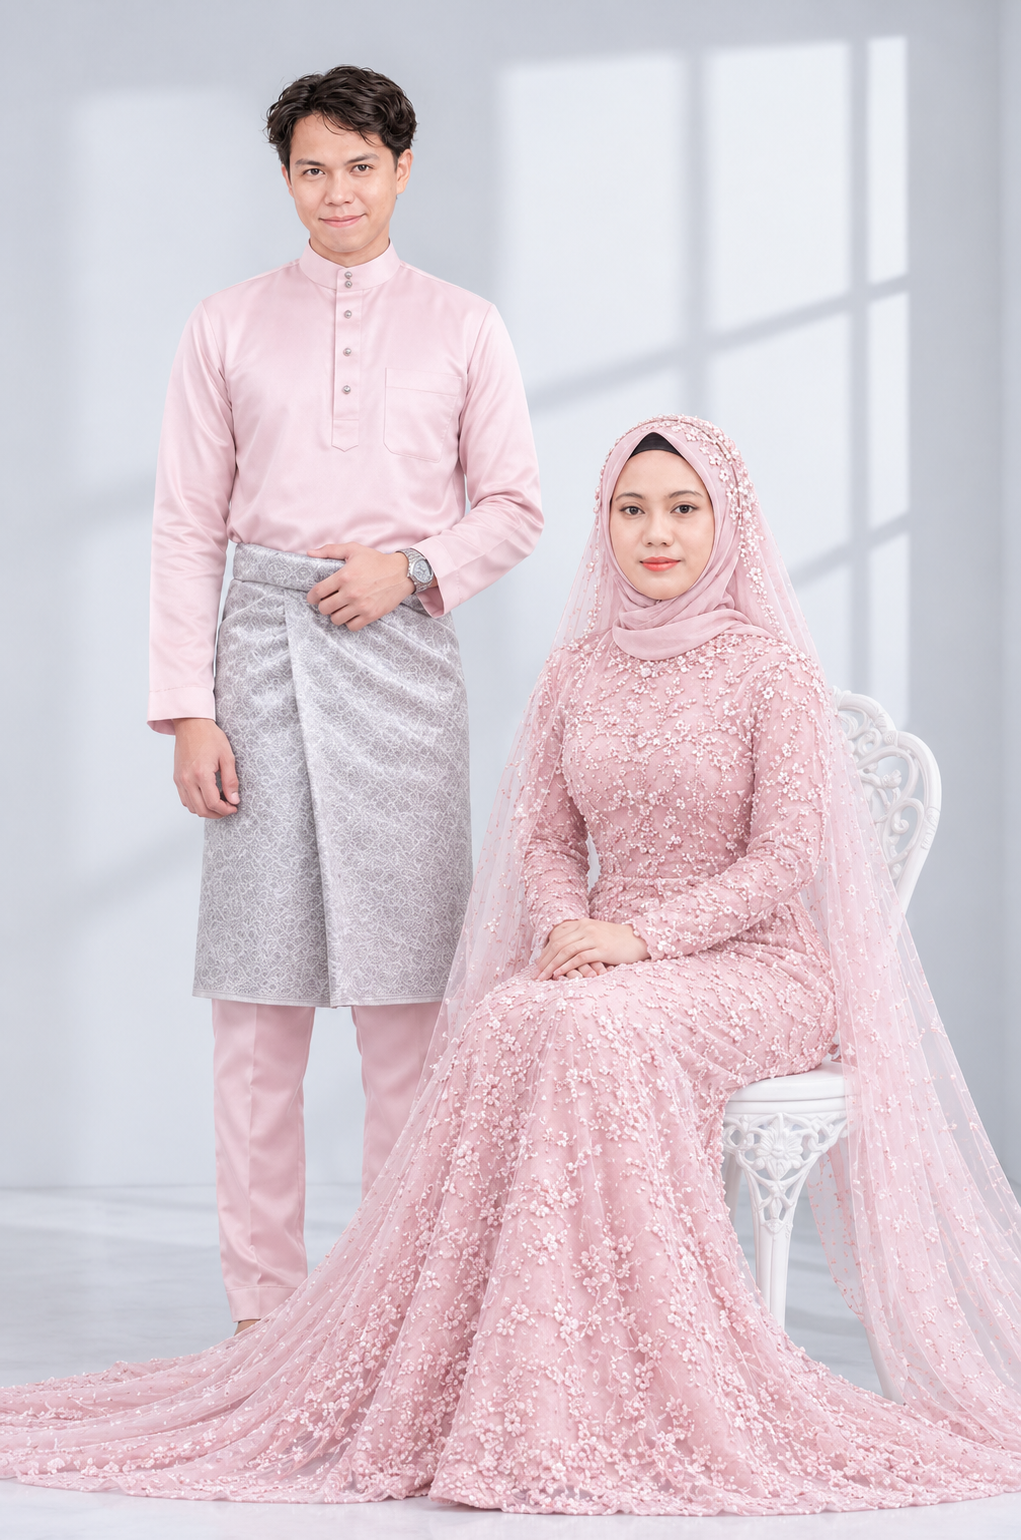
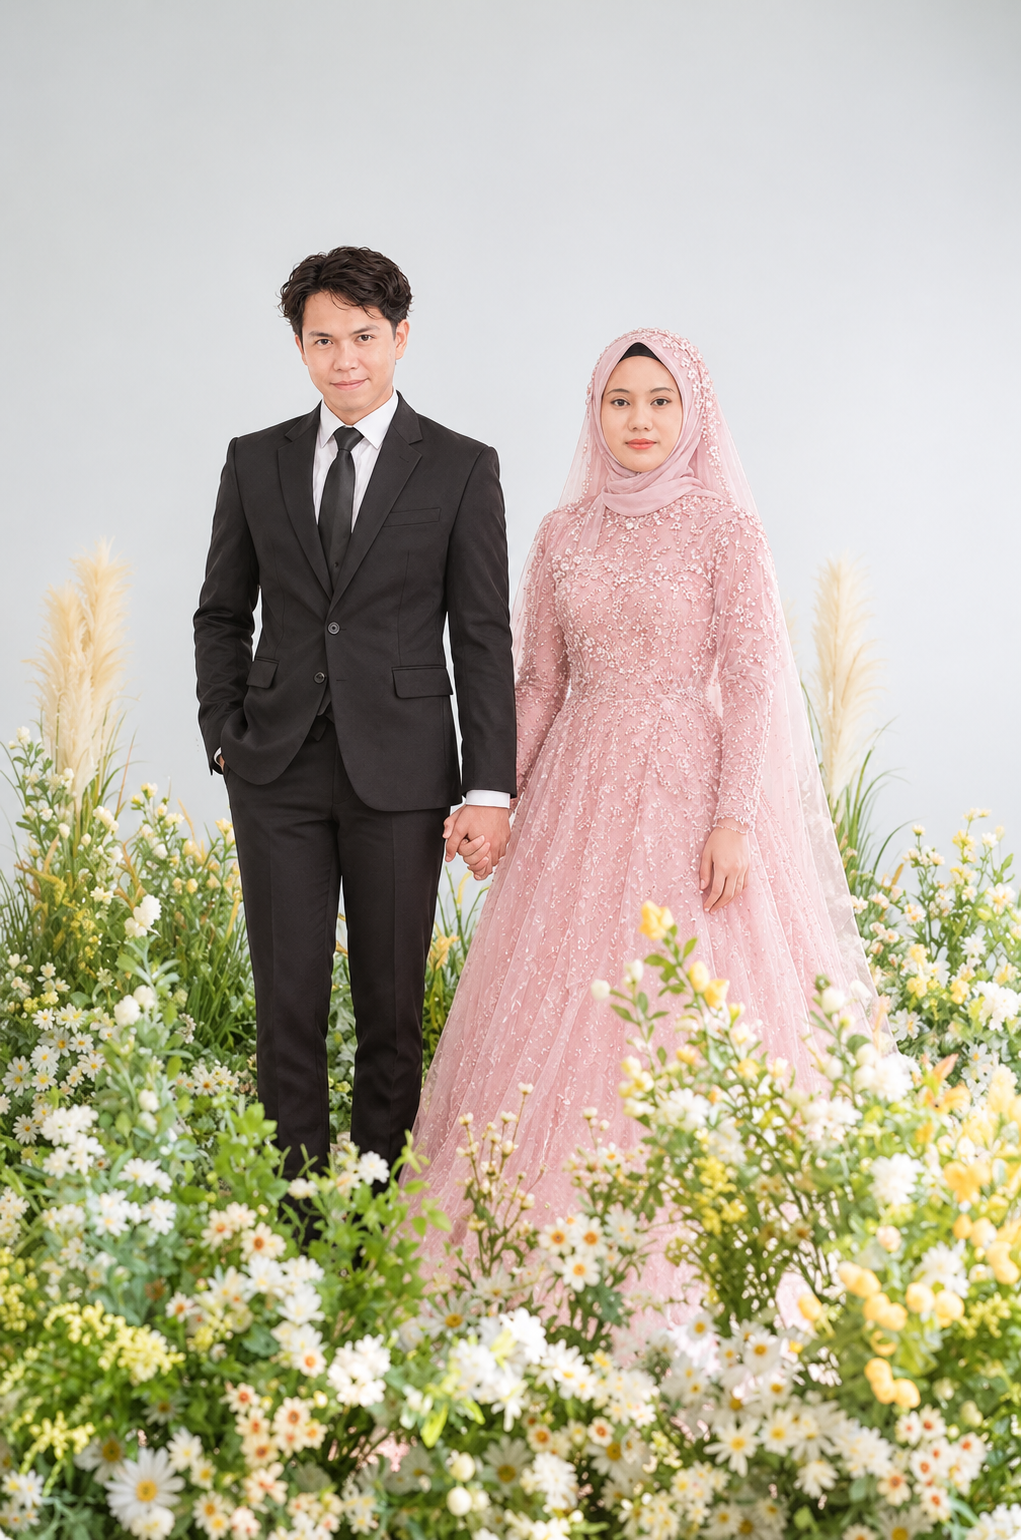
foto

diff --git a/index.html b/index.html
@@ -46,32 +46,32 @@
         
         html {
             scroll-behavior: smooth;
-            overflow-x: hidden;
-            perspective: 1px;
             width: 100%;
-            max-width: 100vw;
         }
         
         body {
             font-family: var(--font-sans);
             color: var(--text-primary);
             background: linear-gradient(to bottom, var(--bg-primary), var(--bg-secondary));
+            background-attachment: fixed;
             line-height: 1.7;
             font-weight: 400;
             overflow-x: hidden;
             position: relative;
             -webkit-font-smoothing: antialiased;
             -moz-osx-font-smoothing: grayscale;
-            transform-style: preserve-3d;
             width: 100%;
-            max-width: 100vw;
             margin: 0;
             padding: 0;
         }
         
         body.lock-scroll {
-            overflow: hidden;
+            overflow: hidden !important;
             height: 100vh;
+            position: fixed;
+            width: 100%;
+            top: 0;
+            left: 0;
         }
         
         /* ========== TYPOGRAPHY ========== */
@@ -191,7 +191,6 @@
         .fade-up {
             opacity: 0;
             animation: fadeUp 0.8s cubic-bezier(0.22, 1, 0.36, 1) forwards;
-            transform-style: preserve-3d;
         }
         
         /* ========== FALLING PETALS ========== */
@@ -213,7 +212,6 @@
             opacity: 0.9;
             pointer-events: none;
             z-index: 1;
-            transform-style: preserve-3d;
         }
         
         .flower-decoration.top-left {
@@ -277,6 +275,7 @@
             left: 0;
             width: 100%;
             height: 100vh;
+            height: 100dvh;
             background: transparent;
             display: flex;
             flex-direction: column;
@@ -286,6 +285,11 @@
             text-align: center;
             padding: 24px 24px 40px;
             overflow: hidden;
+            pointer-events: auto;
+        }
+        
+        #cover.hidden {
+            pointer-events: none;
         }
         
         #cover::after {
@@ -342,19 +346,11 @@
         .bismillah {
             font-family: 'Traditional Arabic', 'Arabic Typesetting', serif;
             font-size: 26px;
-            color: rgba(255, 255, 255, 1);
+            color: #000000;
             margin-bottom: 24px;
             line-height: 1.8;
             direction: rtl;
             font-weight: 700;
-            text-shadow: 
-                0 0 10px rgba(0, 0, 0, 0.9),
-                0 0 20px rgba(0, 0, 0, 0.8),
-                0 2px 15px rgba(0, 0, 0, 0.9),
-                -1px -1px 0 rgba(0, 0, 0, 0.8),
-                1px -1px 0 rgba(0, 0, 0, 0.8),
-                -1px 1px 0 rgba(0, 0, 0, 0.8),
-                1px 1px 0 rgba(0, 0, 0, 0.8);
         }
         
         .cover-names {
@@ -448,7 +444,6 @@
                 inset 0 1px 1px rgba(255, 255, 255, 0.3);
             opacity: 0;
             animation: fadeIn 1s ease-out 1.6s forwards;
-            transform-style: preserve-3d;
         }
         
         .open-button:hover {
@@ -468,8 +463,11 @@
             opacity: 0;
             transition: opacity 0.5s ease-out;
             width: 100%;
-            max-width: 100vw;
-            overflow-x: hidden;
+            position: relative;
+            z-index: 1;
+            padding-bottom: 60px;
+            padding-top: 0;
+            margin-top: 0;
         }
         
         #main-content.visible {
@@ -479,10 +477,8 @@
         section {
             padding: var(--section-padding);
             position: relative;
-            overflow: hidden;
-            transform-style: preserve-3d;
             width: 100%;
-            max-width: 100vw;
+            overflow: hidden;
         }
         
         .section-title {
@@ -509,6 +505,8 @@
         #quote {
             background: linear-gradient(to bottom, var(--bg-secondary), var(--bg-primary));
             padding: 80px 24px;
+            position: relative;
+            z-index: 2;
         }
         
         .quote-content {
@@ -579,7 +577,6 @@
             width: 240px;
             height: 240px;
             margin: 0 auto 24px;
-            transform-style: preserve-3d;
             transition: transform 0.6s cubic-bezier(0.23, 1, 0.32, 1);
         }
         
@@ -685,7 +682,6 @@
                 0 8px 32px rgba(74, 63, 63, 0.1),
                 inset 0 1px 1px rgba(255, 255, 255, 0.5);
             border: 1px solid rgba(255, 255, 255, 0.3);
-            transform-style: preserve-3d;
             transition: var(--transition);
         }
         
@@ -750,7 +746,6 @@
             position: relative;
             margin-bottom: 40px;
             opacity: 0;
-            transform-style: preserve-3d;
             transition: transform 0.3s ease;
         }
         
@@ -818,7 +813,6 @@
             text-align: center;
             transition: var(--transition);
             opacity: 0;
-            transform-style: preserve-3d;
         }
         
         .event-card:hover {
@@ -949,7 +943,6 @@
                 0 8px 32px rgba(74, 63, 63, 0.1),
                 inset 0 1px 1px rgba(255, 255, 255, 0.6);
             border: 1px solid rgba(255, 255, 255, 0.4);
-            transform-style: preserve-3d;
             transition: var(--transition);
         }
         
@@ -1020,7 +1013,6 @@
             cursor: pointer;
             transition: var(--transition);
             letter-spacing: 1px;
-            transform-style: preserve-3d;
             box-shadow: 
                 0 4px 16px rgba(201, 169, 166, 0.3),
                 inset 0 1px 1px rgba(255, 255, 255, 0.3);
@@ -1054,7 +1046,6 @@
             box-shadow: 
                 0 4px 16px rgba(74, 63, 63, 0.08),
                 inset 0 1px 1px rgba(255, 255, 255, 0.5);
-            transform-style: preserve-3d;
             transition: var(--transition);
         }
         
@@ -1099,7 +1090,7 @@
         /* ========== CLOSING SECTION ========== */
         #closing {
             background: linear-gradient(135deg, var(--bg-secondary), var(--bg-primary));
-            padding: 80px 24px;
+            padding: 60px 24px 95px;
             text-align: center;
         }
         
@@ -1129,7 +1120,7 @@
         /* ========== FLOATING MUSIC BUTTON ========== */
         .music-toggle {
             position: fixed;
-            bottom: 90px;
+            bottom: 76px;
             right: 24px;
             width: 56px;
             height: 56px;
@@ -1173,7 +1164,7 @@
             backdrop-filter: blur(20px) saturate(180%);
             -webkit-backdrop-filter: blur(20px) saturate(180%);
             border-top: 1px solid rgba(255, 255, 255, 0.3);
-            padding: 12px 0;
+            padding: 8px 0;
             z-index: 900;
             box-shadow: 
                 0 -4px 24px rgba(74, 63, 63, 0.08),
@@ -1192,11 +1183,11 @@
             display: flex;
             flex-direction: column;
             align-items: center;
-            gap: 4px;
+            gap: 2px;
             text-decoration: none;
             color: var(--text-secondary);
             transition: var(--transition);
-            padding: 8px 12px;
+            padding: 6px 10px;
             border-radius: 12px;
         }
         
@@ -1209,11 +1200,11 @@
         }
         
         .nav-icon {
-            font-size: 20px;
+            font-size: 17px;
         }
         
         .nav-label {
-            font-size: 10px;
+            font-size: 9px;
             font-weight: 500;
             letter-spacing: 0.5px;
         }
@@ -1222,6 +1213,22 @@
         @media (min-width: 768px) {
             :root {
                 --section-padding: var(--section-padding-desktop);
+            }
+            
+            /* Cover background - batasi lebar seperti HP */
+            #cover {
+                background: var(--bg-secondary);
+            }
+            
+            .cover-bg-container {
+                width: 100% !important;
+                max-width: 480px !important;
+                left: 50% !important;
+                transform: translateX(-50%) !important;
+            }
+            
+            .cover-bg-layer {
+                background-position: center top !important;
             }
             
             .cover-names {

diff --git a/main.js b/main.js
@@ -57,10 +57,22 @@ document.addEventListener('DOMContentLoaded', function() {
         // Hide cover dengan fade out
         cover.style.transition = 'opacity 0.8s ease-out';
         cover.style.opacity = '0';
+        cover.style.pointerEvents = 'none';
         
         setTimeout(() => {
             cover.style.display = 'none';
+            cover.style.visibility = 'hidden';
+            cover.classList.add('hidden');
+            
+            // Remove lock scroll dan reset body position
             document.body.classList.remove('lock-scroll');
+            document.body.style.position = 'relative';
+            document.body.style.height = 'auto';
+            document.body.style.overflow = '';
+            document.body.style.width = '';
+            document.body.style.top = '';
+            document.body.style.left = '';
+            
             mainContent.classList.add('visible');
             musicToggle.classList.remove('hidden');
             bottomNav.classList.remove('hidden');
@@ -82,22 +94,25 @@ document.addEventListener('DOMContentLoaded', function() {
     });
     
     // ========== MUSIC TOGGLE ==========
-    let isPlaying = false;
     musicToggle.addEventListener('click', function() {
-        if (isPlaying) {
-            bgMusic.pause();
-            musicToggle.classList.remove('playing');
-            document.getElementById('musicIcon').textContent = '🔇';
+        if (bgMusic.paused) {
+            bgMusic.play().catch(err => {
+                console.log('Play prevented:', err);
+            });
         } else {
-            bgMusic.play();
-            musicToggle.classList.add('playing');
-            document.getElementById('musicIcon').textContent = '🔊';
+            bgMusic.pause();
         }
-        isPlaying = !isPlaying;
     });
     
-    bgMusic.addEventListener('play', () => { isPlaying = true; });
-    bgMusic.addEventListener('pause', () => { isPlaying = false; });
+    bgMusic.addEventListener('play', () => {
+        musicToggle.classList.add('playing');
+        document.getElementById('musicIcon').textContent = '🔊';
+    });
+    
+    bgMusic.addEventListener('pause', () => {
+        musicToggle.classList.remove('playing');
+        document.getElementById('musicIcon').textContent = '🔇';
+    });
     
     // ========== COUNTDOWN TIMER ==========
     function updateCountdown() {
@@ -416,6 +431,7 @@ function initBackgroundSlideshow() {
     
     // Create background container
     const bgContainer = document.createElement('div');
+    bgContainer.className = 'cover-bg-container';
     bgContainer.style.cssText = `
         position: absolute;
         top: 0;
@@ -428,6 +444,8 @@ function initBackgroundSlideshow() {
     // Create two image layers for crossfade
     const img1 = document.createElement('div');
     const img2 = document.createElement('div');
+    img1.className = 'cover-bg-layer';
+    img2.className = 'cover-bg-layer';
     
     const imgStyle = `
         position: absolute;
